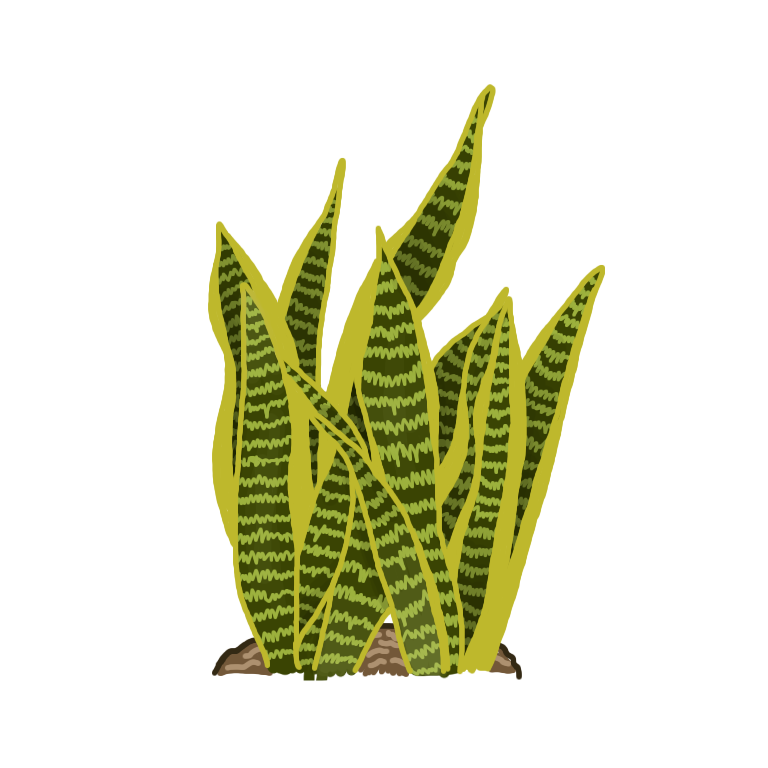
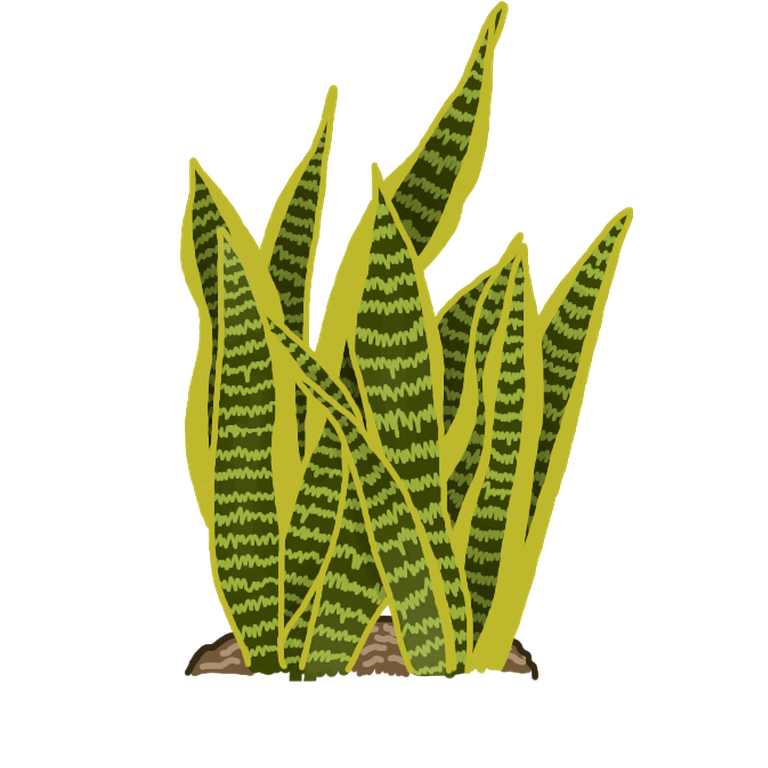
Make the Snake plant 14% bigger
Scaled up around the bottom of its soil, so it still sits in the pot the
same way; 14% is as tall as it can grow on its canvas. Bumped the art
version so browsers fetch the new picture.

Claude-Session: https://claude.ai/code/session_01AKYuNggPa5w9iRuLumobCr

Changed region(s): [[0.2188, 0.0, 0.8438, 0.9062]]

diff --git a/profile.html b/profile.html
@@ -24,8 +24,8 @@
   <meta name="twitter:card" content="summary_large_image" />
   <link rel="preconnect" href="https://fonts.googleapis.com" />
   <link href="https://fonts.googleapis.com/css2?family=Fraunces:wght@500;600&family=Work+Sans:wght@400;500;600&display=swap" rel="stylesheet" />
-  <link rel="stylesheet" href="style.css?v=180" />
-  <script src="a11y.js?v=180"></script>
+  <link rel="stylesheet" href="style.css?v=181" />
+  <script src="a11y.js?v=181"></script>
 </head>
 <body>
   <header class="site-header">
@@ -76,14 +76,14 @@
     <section id="profile-posts" class="feed"><p class="feed-empty is-loading">Loading…</p></section>
   </main>
   <script src="https://cdn.jsdelivr.net/npm/@supabase/supabase-js@2"></script>
-  <script src="supabase-client.js?v=180"></script>
-  <script src="profile-fields.js?v=180"></script>
-  <script src="nav-menu.js?v=180"></script>
-  <script src="ui.js?v=180"></script>
-  <script src="drift.js?v=180"></script>
-  <script src="edit-forms.js?v=180"></script>
-  <script src="biome.js?v=180"></script>
-  <script src="report.js?v=180"></script>
-  <script src="profile.js?v=180"></script>
+  <script src="supabase-client.js?v=181"></script>
+  <script src="profile-fields.js?v=181"></script>
+  <script src="nav-menu.js?v=181"></script>
+  <script src="ui.js?v=181"></script>
+  <script src="drift.js?v=181"></script>
+  <script src="edit-forms.js?v=181"></script>
+  <script src="biome.js?v=181"></script>
+  <script src="report.js?v=181"></script>
+  <script src="profile.js?v=181"></script>
 </body>
 </html>

diff --git a/reviews.html b/reviews.html
@@ -24,8 +24,8 @@
   <meta name="twitter:card" content="summary_large_image" />
   <link rel="preconnect" href="https://fonts.googleapis.com" />
   <link href="https://fonts.googleapis.com/css2?family=Fraunces:wght@500;600&family=Work+Sans:wght@400;500;600&display=swap" rel="stylesheet" />
-  <link rel="stylesheet" href="style.css?v=180" />
-  <script src="a11y.js?v=180"></script>
+  <link rel="stylesheet" href="style.css?v=181" />
+  <script src="a11y.js?v=181"></script>
 </head>
 <body data-biome="forest" data-beta-banner>
   <header class="site-header">
@@ -164,14 +164,14 @@
     </section>
   </main>
   <script src="https://cdn.jsdelivr.net/npm/@supabase/supabase-js@2"></script>
-  <script src="supabase-client.js?v=180"></script>
-  <script src="profile-fields.js?v=180"></script>
-  <script src="nav-menu.js?v=180"></script>
-  <script src="ui.js?v=180"></script>
-  <script src="drift.js?v=180"></script>
-  <script src="edit-forms.js?v=180"></script>
-  <script src="report.js?v=180"></script>
-  <script src="product-match.js?v=180"></script>
-  <script src="reviews.js?v=180"></script>
+  <script src="supabase-client.js?v=181"></script>
+  <script src="profile-fields.js?v=181"></script>
+  <script src="nav-menu.js?v=181"></script>
+  <script src="ui.js?v=181"></script>
+  <script src="drift.js?v=181"></script>
+  <script src="edit-forms.js?v=181"></script>
+  <script src="report.js?v=181"></script>
+  <script src="product-match.js?v=181"></script>
+  <script src="reviews.js?v=181"></script>
 </body>
 </html>

diff --git a/feed.html b/feed.html
@@ -25,8 +25,8 @@
 
   <link rel="preconnect" href="https://fonts.googleapis.com" />
   <link href="https://fonts.googleapis.com/css2?family=Fraunces:wght@500;600&family=Work+Sans:wght@400;500;600&display=swap" rel="stylesheet" />
-  <link rel="stylesheet" href="style.css?v=180" />
-  <script src="a11y.js?v=180"></script>
+  <link rel="stylesheet" href="style.css?v=181" />
+  <script src="a11y.js?v=181"></script>
 </head>
 <body data-biome="forest" data-beta-banner>
 
@@ -95,15 +95,15 @@
   </main>
 
   <script src="https://cdn.jsdelivr.net/npm/@supabase/supabase-js@2"></script>
-  <script src="supabase-client.js?v=180"></script>
-  <script src="profile-fields.js?v=180"></script>
-  <script src="nav-menu.js?v=180"></script>
-  <script src="ui.js?v=180"></script>
-  <script src="drift.js?v=180"></script>
-  <script src="daily.js?v=180"></script>
-  <script src="edit-forms.js?v=180"></script>
-  <script src="report.js?v=180"></script>
-  <script src="polls.js?v=180"></script>
-  <script src="feed.js?v=180"></script>
+  <script src="supabase-client.js?v=181"></script>
+  <script src="profile-fields.js?v=181"></script>
+  <script src="nav-menu.js?v=181"></script>
+  <script src="ui.js?v=181"></script>
+  <script src="drift.js?v=181"></script>
+  <script src="daily.js?v=181"></script>
+  <script src="edit-forms.js?v=181"></script>
+  <script src="report.js?v=181"></script>
+  <script src="polls.js?v=181"></script>
+  <script src="feed.js?v=181"></script>
 </body>
 </html>

diff --git a/moderate-products.html b/moderate-products.html
@@ -25,8 +25,8 @@
 
   <link rel="preconnect" href="https://fonts.googleapis.com" />
   <link href="https://fonts.googleapis.com/css2?family=Fraunces:wght@500;600&family=Work+Sans:wght@400;500;600&display=swap" rel="stylesheet" />
-  <link rel="stylesheet" href="style.css?v=180" />
-  <script src="a11y.js?v=180"></script>
+  <link rel="stylesheet" href="style.css?v=181" />
+  <script src="a11y.js?v=181"></script>
 </head>
 <body>
 
@@ -203,11 +203,11 @@
   </main>
 
   <script src="https://cdn.jsdelivr.net/npm/@supabase/supabase-js@2"></script>
-  <script src="supabase-client.js?v=180"></script>
-  <script src="profile-fields.js?v=180"></script>
-  <script src="nav-menu.js?v=180"></script>
-  <script src="ui.js?v=180"></script>
-  <script src="product-match.js?v=180"></script>
-  <script src="moderate-products.js?v=180"></script>
+  <script src="supabase-client.js?v=181"></script>
+  <script src="profile-fields.js?v=181"></script>
+  <script src="nav-menu.js?v=181"></script>
+  <script src="ui.js?v=181"></script>
+  <script src="product-match.js?v=181"></script>
+  <script src="moderate-products.js?v=181"></script>
 </body>
 </html>

diff --git a/faq.html b/faq.html
@@ -26,8 +26,8 @@
   <meta name="twitter:card" content="summary_large_image" />
   <link rel="preconnect" href="https://fonts.googleapis.com" />
   <link href="https://fonts.googleapis.com/css2?family=Fraunces:wght@500;600&family=Work+Sans:wght@400;500;600&display=swap" rel="stylesheet" />
-  <link rel="stylesheet" href="style.css?v=180" />
-  <script src="a11y.js?v=180"></script>
+  <link rel="stylesheet" href="style.css?v=181" />
+  <script src="a11y.js?v=181"></script>
   <!-- For search engines: what this page is -->
   <script type="application/ld+json">
 {
@@ -285,8 +285,8 @@
     <p class="faq-more">Ready to join? <a class="inline-link" href="signup.html">Sign up for free</a>, or <a class="inline-link" href="reviews.html">browse reviews</a> first.</p>
   </main>
   <script src="https://cdn.jsdelivr.net/npm/@supabase/supabase-js@2"></script>
-  <script src="supabase-client.js?v=180"></script>
-  <script src="nav-menu.js?v=180"></script>
-  <script src="ui.js?v=180"></script>
+  <script src="supabase-client.js?v=181"></script>
+  <script src="nav-menu.js?v=181"></script>
+  <script src="ui.js?v=181"></script>
 </body>
 </html>

diff --git a/index.html b/index.html
@@ -28,8 +28,8 @@
   <link href="https://fonts.googleapis.com/css2?family=Fraunces:wght@500;600&family=Work+Sans:wght@400;500;600&display=swap" rel="stylesheet" />
 
   <!-- Our own stylesheet, kept in a separate file -->
-  <link rel="stylesheet" href="style.css?v=180" />
-  <script src="a11y.js?v=180"></script>
+  <link rel="stylesheet" href="style.css?v=181" />
+  <script src="a11y.js?v=181"></script>
   <link rel="canonical" href="https://byome.xyz/" />
   <!-- For search engines: the site's name, and who runs it -->
   <script type="application/ld+json">
@@ -126,10 +126,10 @@
   </footer>
 
   <script src="https://cdn.jsdelivr.net/npm/@supabase/supabase-js@2"></script>
-  <script src="supabase-client.js?v=180"></script>
-  <script src="nav-menu.js?v=180"></script>
-  <script src="ui.js?v=180"></script>
-  <script src="daily.js?v=180"></script>
-  <script src="home.js?v=180"></script>
+  <script src="supabase-client.js?v=181"></script>
+  <script src="nav-menu.js?v=181"></script>
+  <script src="ui.js?v=181"></script>
+  <script src="daily.js?v=181"></script>
+  <script src="home.js?v=181"></script>
 </body>
 </html>

diff --git a/about.html b/about.html
@@ -26,8 +26,8 @@
   <meta name="twitter:card" content="summary_large_image" />
   <link rel="preconnect" href="https://fonts.googleapis.com" />
   <link href="https://fonts.googleapis.com/css2?family=Fraunces:wght@500;600&family=Work+Sans:wght@400;500;600&display=swap" rel="stylesheet" />
-  <link rel="stylesheet" href="style.css?v=180" />
-  <script src="a11y.js?v=180"></script>
+  <link rel="stylesheet" href="style.css?v=181" />
+  <script src="a11y.js?v=181"></script>
   <!-- For search engines: what this page is -->
   <script type="application/ld+json">
 {
@@ -109,8 +109,8 @@
     <p class="faq-more"><a class="btn btn-solid" href="signup.html">Join Byome for free</a> <a class="btn btn-ghost" href="reviews.html">Browse reviews</a></p>
   </main>
   <script src="https://cdn.jsdelivr.net/npm/@supabase/supabase-js@2"></script>
-  <script src="supabase-client.js?v=180"></script>
-  <script src="nav-menu.js?v=180"></script>
-  <script src="ui.js?v=180"></script>
+  <script src="supabase-client.js?v=181"></script>
+  <script src="nav-menu.js?v=181"></script>
+  <script src="ui.js?v=181"></script>
 </body>
 </html>

diff --git a/edit-profile.html b/edit-profile.html
@@ -24,8 +24,8 @@
   <meta name="twitter:card" content="summary_large_image" />
   <link rel="preconnect" href="https://fonts.googleapis.com" />
   <link href="https://fonts.googleapis.com/css2?family=Fraunces:wght@500;600&family=Work+Sans:wght@400;500;600&display=swap" rel="stylesheet" />
-  <link rel="stylesheet" href="style.css?v=180" />
-  <script src="a11y.js?v=180"></script>
+  <link rel="stylesheet" href="style.css?v=181" />
+  <script src="a11y.js?v=181"></script>
 </head>
 <body>
   <header class="site-header">
@@ -110,10 +110,10 @@
   </main>
 
   <script src="https://cdn.jsdelivr.net/npm/@supabase/supabase-js@2"></script>
-  <script src="supabase-client.js?v=180"></script>
-  <script src="profile-fields.js?v=180"></script>
-  <script src="nav-menu.js?v=180"></script>
-  <script src="ui.js?v=180"></script>
-  <script src="edit-profile.js?v=180"></script>
+  <script src="supabase-client.js?v=181"></script>
+  <script src="profile-fields.js?v=181"></script>
+  <script src="nav-menu.js?v=181"></script>
+  <script src="ui.js?v=181"></script>
+  <script src="edit-profile.js?v=181"></script>
 </body>
 </html>

diff --git a/reset-password.html b/reset-password.html
@@ -25,8 +25,8 @@
 
   <link rel="preconnect" href="https://fonts.googleapis.com" />
   <link href="https://fonts.googleapis.com/css2?family=Fraunces:wght@500;600&family=Work+Sans:wght@400;500;600&display=swap" rel="stylesheet" />
-  <link rel="stylesheet" href="style.css?v=180" />
-  <script src="a11y.js?v=180"></script>
+  <link rel="stylesheet" href="style.css?v=181" />
+  <script src="a11y.js?v=181"></script>
   <!-- Note what the email link said before Supabase tidies the address bar -->
   <script>window.resetLinkParams = window.location.hash.slice(1) + "&" + window.location.search.slice(1);</script>
 </head>
@@ -75,9 +75,9 @@
   </main>
 
   <script src="https://cdn.jsdelivr.net/npm/@supabase/supabase-js@2"></script>
-  <script src="supabase-client.js?v=180"></script>
-  <script src="nav-menu.js?v=180"></script>
-  <script src="ui.js?v=180"></script>
-  <script src="reset-password.js?v=180"></script>
+  <script src="supabase-client.js?v=181"></script>
+  <script src="nav-menu.js?v=181"></script>
+  <script src="ui.js?v=181"></script>
+  <script src="reset-password.js?v=181"></script>
 </body>
 </html>

diff --git a/events.html b/events.html
@@ -24,8 +24,8 @@
   <meta name="twitter:card" content="summary_large_image" />
   <link rel="preconnect" href="https://fonts.googleapis.com" />
   <link href="https://fonts.googleapis.com/css2?family=Fraunces:wght@500;600&family=Work+Sans:wght@400;500;600&display=swap" rel="stylesheet" />
-  <link rel="stylesheet" href="style.css?v=180" />
-  <script src="a11y.js?v=180"></script>
+  <link rel="stylesheet" href="style.css?v=181" />
+  <script src="a11y.js?v=181"></script>
 </head>
 <body>
   <header class="site-header">
@@ -45,10 +45,10 @@
     </div>
   </main>
   <script src="https://cdn.jsdelivr.net/npm/@supabase/supabase-js@2"></script>
-  <script src="supabase-client.js?v=180"></script>
-  <script src="nav-menu.js?v=180"></script>
-  <script src="ui.js?v=180"></script>
-  <script src="biome.js?v=180"></script>
-  <script src="events.js?v=180"></script>
+  <script src="supabase-client.js?v=181"></script>
+  <script src="nav-menu.js?v=181"></script>
+  <script src="ui.js?v=181"></script>
+  <script src="biome.js?v=181"></script>
+  <script src="events.js?v=181"></script>
 </body>
 </html>

diff --git a/byome-shop.html b/byome-shop.html
@@ -25,8 +25,8 @@
 
   <link rel="preconnect" href="https://fonts.googleapis.com" />
   <link href="https://fonts.googleapis.com/css2?family=Fraunces:wght@500;600&family=Work+Sans:wght@400;500;600&display=swap" rel="stylesheet" />
-  <link rel="stylesheet" href="style.css?v=180" />
-  <script src="a11y.js?v=180"></script>
+  <link rel="stylesheet" href="style.css?v=181" />
+  <script src="a11y.js?v=181"></script>
 </head>
 <body>
 
@@ -56,11 +56,11 @@
   </main>
 
   <script src="https://cdn.jsdelivr.net/npm/@supabase/supabase-js@2"></script>
-  <script src="supabase-client.js?v=180"></script>
-  <script src="nav-menu.js?v=180"></script>
-  <script src="ui.js?v=180"></script>
-  <script src="drift.js?v=180"></script>
-  <script src="biome.js?v=180"></script>
-  <script src="biome-shop.js?v=180"></script>
+  <script src="supabase-client.js?v=181"></script>
+  <script src="nav-menu.js?v=181"></script>
+  <script src="ui.js?v=181"></script>
+  <script src="drift.js?v=181"></script>
+  <script src="biome.js?v=181"></script>
+  <script src="biome-shop.js?v=181"></script>
 </body>
 </html>

diff --git a/signup.html b/signup.html
@@ -25,8 +25,8 @@
 
   <link rel="preconnect" href="https://fonts.googleapis.com" />
   <link href="https://fonts.googleapis.com/css2?family=Fraunces:wght@500;600&family=Work+Sans:wght@400;500;600&display=swap" rel="stylesheet" />
-  <link rel="stylesheet" href="style.css?v=180" />
-  <script src="a11y.js?v=180"></script>
+  <link rel="stylesheet" href="style.css?v=181" />
+  <script src="a11y.js?v=181"></script>
 </head>
 <body>
 
@@ -82,11 +82,11 @@
   <!-- Supabase's own code library, loaded from their servers -->
   <script src="https://cdn.jsdelivr.net/npm/@supabase/supabase-js@2"></script>
   <!-- Our shared connection setup -->
-  <script src="supabase-client.js?v=180"></script>
+  <script src="supabase-client.js?v=181"></script>
   <!-- Hamburger menu behavior -->
-  <script src="nav-menu.js?v=180"></script>
-  <script src="ui.js?v=180"></script>
+  <script src="nav-menu.js?v=181"></script>
+  <script src="ui.js?v=181"></script>
   <!-- The logic specific to this page -->
-  <script src="signup.js?v=180"></script>
+  <script src="signup.js?v=181"></script>
 </body>
 </html>
